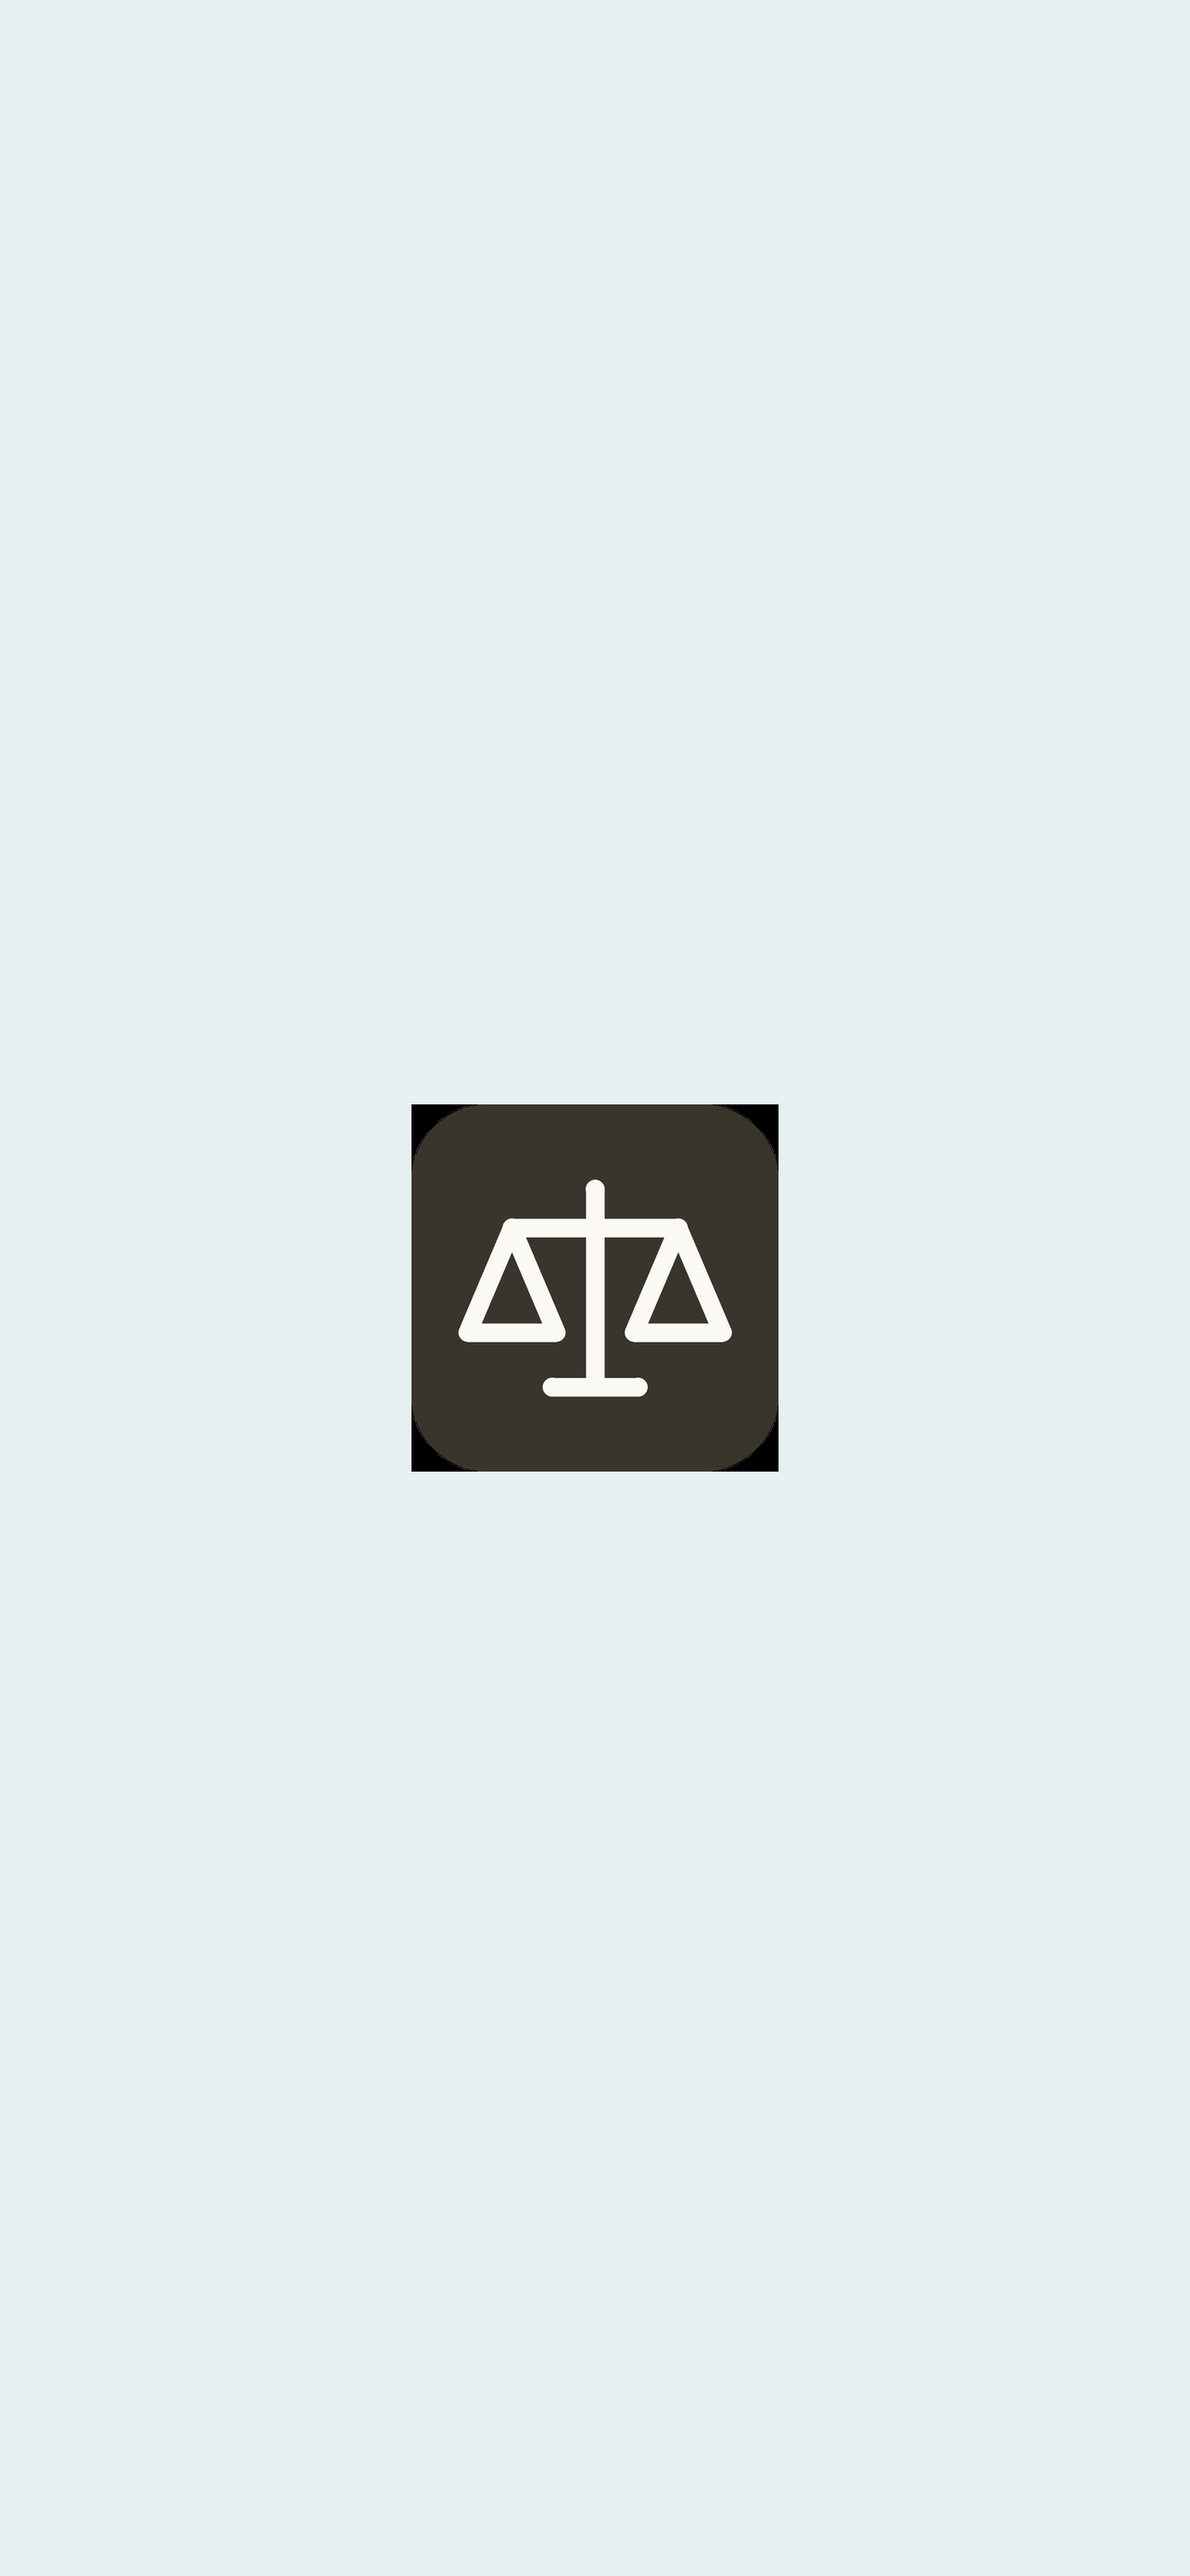
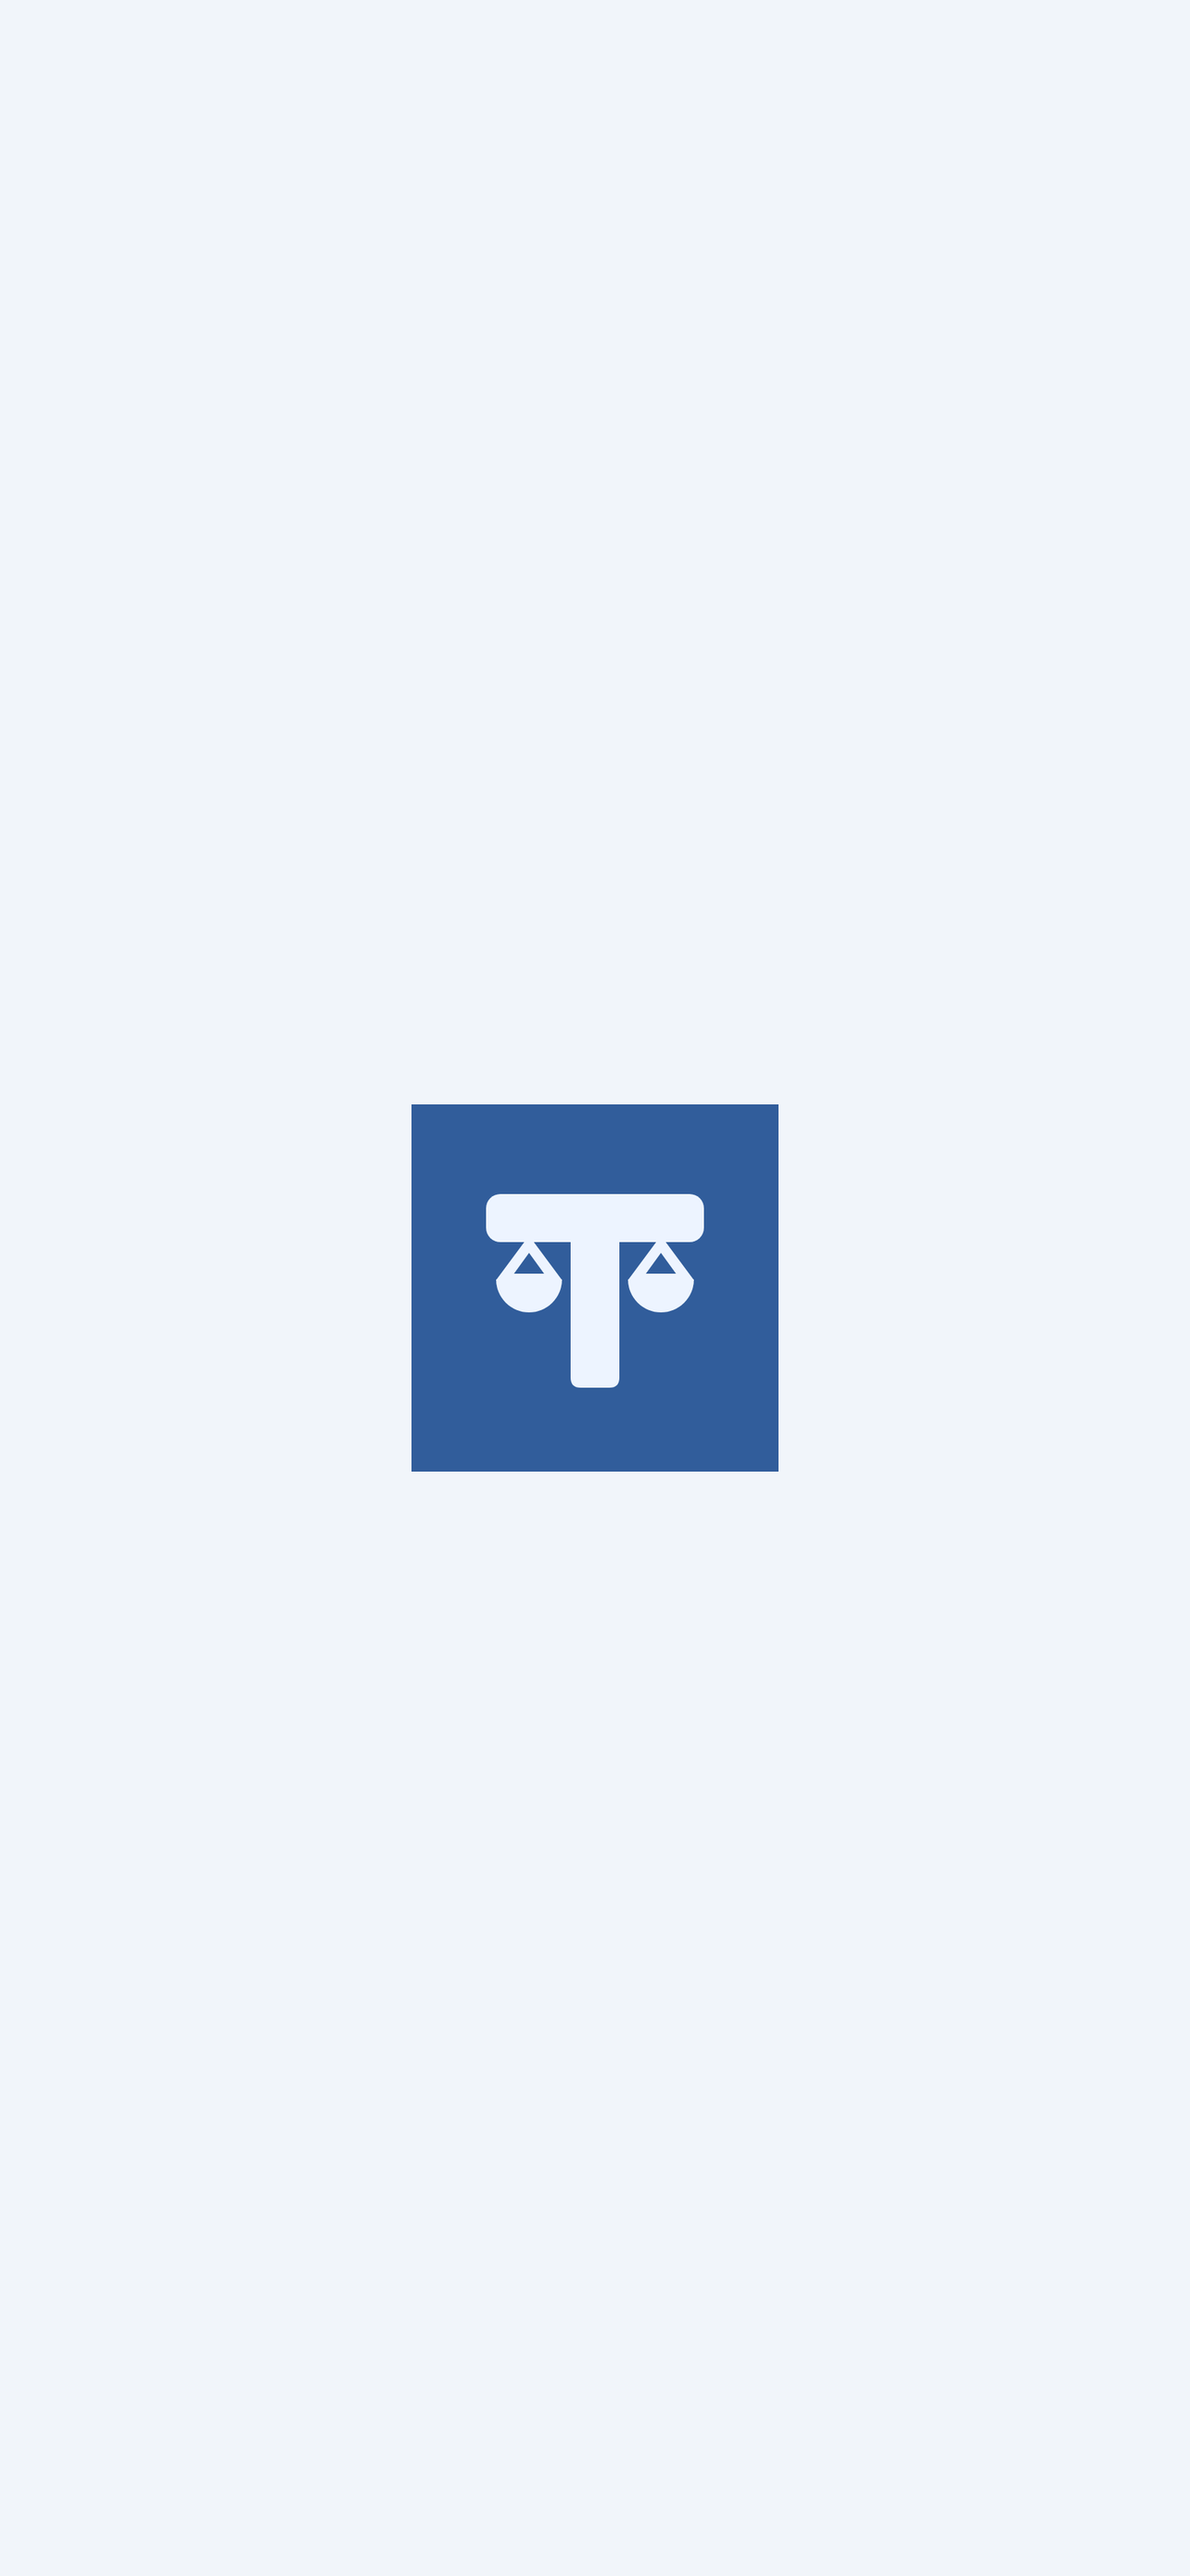
Ganti ikon layar utama dengan T timbangan TeraFlow v57

Changed region(s): [[0.3427, 0.4024, 0.6542, 0.5882]]

diff --git a/app/timbangan/templates/base.html b/app/timbangan/templates/base.html
@@ -11,7 +11,7 @@
   <meta name="apple-mobile-web-app-capable" content="yes">
   <meta name="apple-mobile-web-app-status-bar-style" content="black-translucent">
   <meta name="mobile-web-app-capable" content="yes">
-  <link rel="manifest" href="{{ PREFIX }}/static/manifest.json">
+  <link rel="manifest" href="{{ PREFIX }}/static/manifest.json?v={{ VERSI }}">
 
   {# Safari iOS MENGABAIKAN ikon SVG dan ikon di dalam manifest. Tanpa baris
      PNG ini, "Tambahkan ke Layar Utama" memakai potret halaman sebagai ikon. #}
@@ -107,7 +107,7 @@
    dibuka oleh skrip kecil di bawah: kalau JavaScript mati, ia tidak pernah
    muncul, sehingga tak mungkin ada layar yang menutupi aplikasi selamanya. #}
 <div class="pembuka" id="pembuka" hidden aria-hidden="true">
-  <img class="pembuka__lambang" src="{{ PREFIX }}/static/ikon.svg"
+  <img class="pembuka__lambang" src="{{ PREFIX }}/static/ikon.svg?v={{ VERSI }}"
        width="132" height="132" alt="">
   <div class="pembuka__nama">TeraFlow</div>
   <div class="pembuka__sub">{{ PERUSAHAAN }}</div>

diff --git a/app/timbangan/static/teraflow.css b/app/timbangan/static/teraflow.css
@@ -26,3 +26,6 @@ body.padiflow-ui.pd-timbang :is(.btn--utama,.tbl.utama,.tbl--utama) {
 /* Berkas yang sama mempertahankan bentuk logo persis di kedua tema. */
 body.padiflow-ui.pd-timbang .bawah__logo--gelap {filter:brightness(2.8) saturate(.7)}
 @media print {body.padiflow-ui.pd-timbang {background:#fff; color:#202832}}
+
+body.padiflow-ui.pd-timbang .pembuka {background:#f1f5fa; color:#243247}
+body.padiflow-ui.pd-timbang .pembuka__sub {color:#5c6c82}

diff --git a/scripts/buat_gambar_pembuka.py b/scripts/buat_gambar_pembuka.py
@@ -22,9 +22,9 @@ AKAR = pathlib.Path(__file__).resolve().parents[1]
 STATIK = AKAR / "app" / "timbangan" / "static"
 KELUAR = STATIK / "pembuka"
 
-#: Sama dengan `--aksi-muda` di app.css — layar pembuka iOS dan layar pembuka
+#: Sama dengan latar terang di teraflow.css — layar pembuka iOS dan layar pembuka
 #: di dalam aplikasi harus sewarna, kalau tidak pergantiannya terlihat berkedip.
-LATAR = (231, 241, 242)
+LATAR = (241, 245, 250)
 
 #: Selebar lambang di app.css (132 px), dikali kerapatan piksel perangkat.
 LAMBANG_CSS = 132

diff --git a/app/timbangan/web.py b/app/timbangan/web.py
@@ -35,7 +35,7 @@ BASE_DIR = Path(__file__).parent
 PREFIX = "/timbangan"
 
 # Dinaikkan bila CSS/JS berubah, supaya perangkat tidak memakai berkas lama.
-VERSI = "56"
+VERSI = "57"
 
 #: Warna tiap status. Dipisahkan dari `logic` karena ini urusan tampilan.
 NADA_STATUS = {
